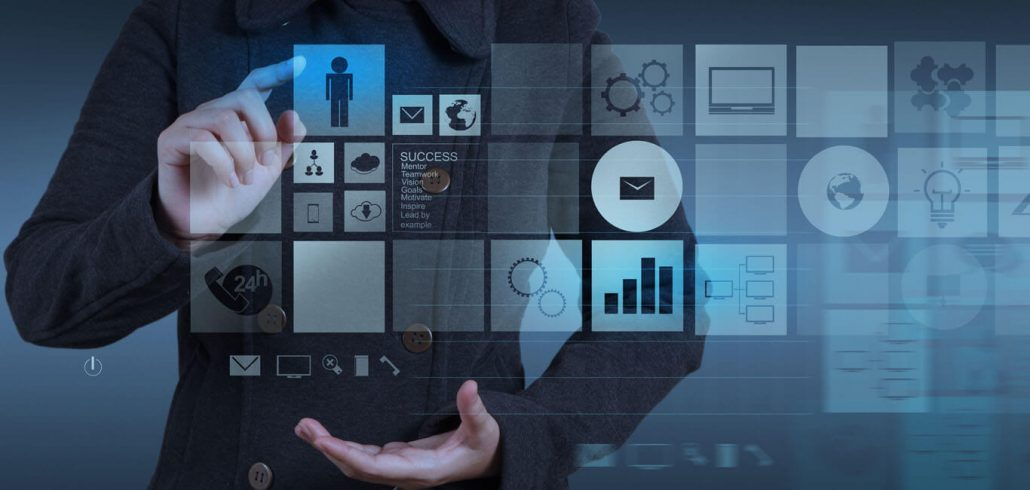
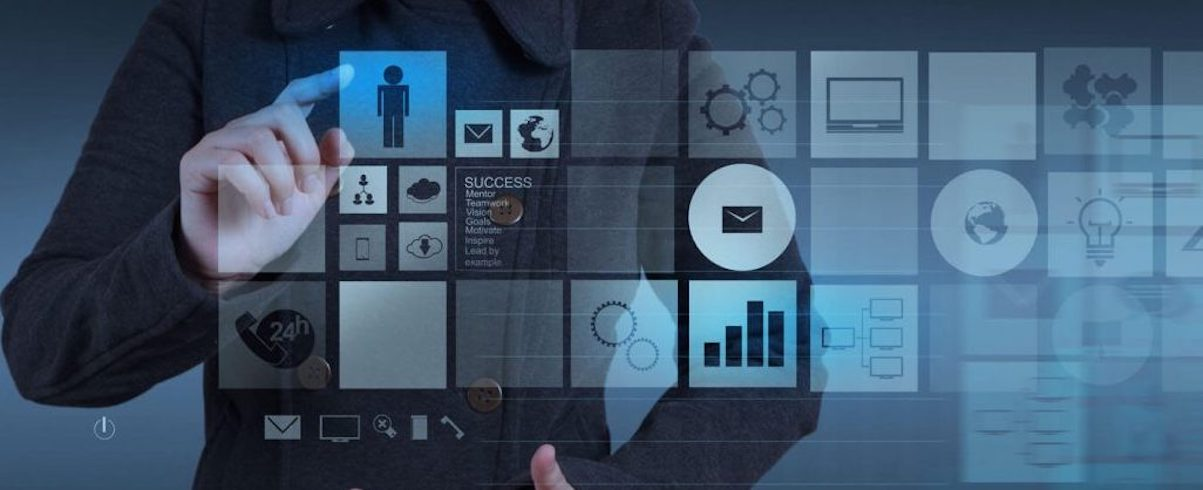
software development implementation

diff --git a/src/app/pages/workflow-component/workflow.component.html b/src/app/pages/workflow-component/workflow.component.html
@@ -1,73 +1,81 @@
 <section class="val_index_page">   
         <div class="banner_index">
-             <div class="banner_sec">
-                  <div class="container">
-                    <div class="row">
-                      <div class="col-lg-12 col-md-12 col-sm-12 col-xs-12">
-                          <h1>Software-<span style="color:#9493da;">Development</span></h1>
-                      </div>
-                    </div>
-                  </div>
-              </div>    
-        </div>
-
-        <div class="get-info">
-          <div class="container">
-            <div class="row">
-                <div class="col-lg-12 col-md-12 col-sm-12 col-xs-12">
-                    <strong>Streamline Workflows to Maximize Cost and Time Savings</strong>
+            <div class="banner_sec">
+                  <div class="row" style="width:100%;">
+                        <div class="col-lg-12 col-md-12 col-sm-12 col-xs-12" style="padding:0;">
+                                <mdb-carousel [isControls]="true" [animation]="'fade'" class="carousel slide carousel-fade">
+                                        <div *ngFor="let slide of slides">
+                                            <mdb-carousel-item>
+                                                <img class="d-block w-100" src="{{ slide.img }}" alt="First slide">
+                                                <div class="carousel-caption caro-capt">
+                                                        <h1 class="h3-responsive">Software-Development<span style="color:#9493da;"></span></h1>
+                                                        <!-- <p>Third text</p> -->
+                                                </div>
+                                            </mdb-carousel-item>
+                                        </div>
+                                </mdb-carousel>
+                        </div>
+                    </div> 
+    
+                <div class="get-info">
+                        <div class="container">
+                          <div class="row">
+                              <div class="col-lg-12 col-md-12 col-sm-12 col-xs-12">
+                                  <strong>Streamline Workflows to Maximize Cost and Time Savings</strong>
+                              </div>
+                          </div>
+                          <div class="row">
+                              <div class="col-lg-12 col-md-12 col-sm-12 col-xs-12">
+                                  <p>Your business day is full of requests and procedures that run through a 
+                                      series of steps required to complete each job.
+                                       Even a simple process like requesting time off can become overwhelming and 
+                                      cumbersome when the only system in place to manage this approval process is
+                                      an email request and a spreadsheet to track who is asking for what and what
+                                      action needs to happen next. Take the work out of workflows by letting 
+                                      VRD NETWORK integrate Gmail, Drive, Sites and other Google Apps into a complete workflow 
+                                      management system.
+                                  </p>
+                              </div>
+                          </div>
+                          <div class="row">
+                              <div class="col-lg-12 col-md-12 col-sm-12 col-xs-12">
+                                  <strong> Examples of VRD Built Workflow Solutions</strong>
+                              </div>
+                          </div>
+                          <div class="row">
+                              <div class="col-lg-12 col-md-12 col-sm-12 col-xs-12">
+                                  <ul>
+                                      <li>Gmail Approve/Reject Workflow</li>
+                                      <li>Vacation Requests </li>
+                                      <li>Overtime Requests </li>
+                                      <li>HR Requests</li>
+                                      <li>Service Desk Management</li>
+                                      <li>Customer Intake</li>
+                                      <li>Order Processing and Invoicing </li>
+                                    </ul>
+                                <p>VRD NETWORK helps businesses worldwide to fully leverage workflow 
+                                    solutions that improve business processes. Recently highlighted in the 
+                                    Google Apps Developer Blog, VRD demonstrated how to replace a 
+                                    cumbersome and time consuming process with an easy to use compliance assurance system.
+                                  </p>
+                              </div>
+                           </div> 
+                           <div class="row">
+                                  <div class="col-lg-12 col-md-12 col-sm-12 col-xs-12">
+                                      <strong>Google Apps Integration</strong>
+                                  </div>
+                              </div>
+                              <div class="row">
+                                  <div class="col-lg-12 col-md-12 col-sm-12 col-xs-12">
+                                    <p>
+                                          VRD really shines when it comes to plugging App Engine into the rest of 
+                                          your Google Apps providing solutions that work
+                                          for everyone in your business without the worry about the device or operating system they use.
+                                      </p>
+                                  </div>
+                               </div>   
+                        </div>
                 </div>
-            </div>
-            <div class="row">
-                <div class="col-lg-12 col-md-12 col-sm-12 col-xs-12">
-                    <p>Your business day is full of requests and procedures that run through a 
-                        series of steps required to complete each job.
-                         Even a simple process like requesting time off can become overwhelming and 
-                        cumbersome when the only system in place to manage this approval process is
-                        an email request and a spreadsheet to track who is asking for what and what
-                        action needs to happen next. Take the work out of workflows by letting 
-                        VRD NETWORK integrate Gmail, Drive, Sites and other Google Apps into a complete workflow 
-                        management system.
-                    </p>
-                </div>
-            </div>
-            <div class="row">
-                <div class="col-lg-12 col-md-12 col-sm-12 col-xs-12">
-                    <strong> Examples of VRD Built Workflow Solutions</strong>
-                </div>
-            </div>
-            <div class="row">
-                <div class="col-lg-12 col-md-12 col-sm-12 col-xs-12">
-                    <ul>
-                        <li>Gmail Approve/Reject Workflow</li>
-                        <li>Vacation Requests </li>
-                        <li>Overtime Requests </li>
-                        <li>HR Requests</li>
-                        <li>Service Desk Management</li>
-                        <li>Customer Intake</li>
-                        <li>Order Processing and Invoicing </li>
-                      </ul>
-                  <p>VRD NETWORK helps businesses worldwide to fully leverage workflow 
-                      solutions that improve business processes. Recently highlighted in the 
-                      Google Apps Developer Blog, VRD demonstrated how to replace a 
-                      cumbersome and time consuming process with an easy to use compliance assurance system.
-                    </p>
-                </div>
-             </div> 
-             <div class="row">
-                    <div class="col-lg-12 col-md-12 col-sm-12 col-xs-12">
-                        <strong>Google Apps Integration</strong>
-                    </div>
-                </div>
-                <div class="row">
-                    <div class="col-lg-12 col-md-12 col-sm-12 col-xs-12">
-                      <p>
-                            VRD really shines when it comes to plugging App Engine into the rest of 
-                            your Google Apps providing solutions that work
-                            for everyone in your business without the worry about the device or operating system they use.
-                        </p>
-                    </div>
-                 </div>   
-          </div>
+              </div>
         </div>
 </section>

diff --git a/src/app/pages/workflow-component/workflow.component.scss b/src/app/pages/workflow-component/workflow.component.scss
@@ -1,22 +1,24 @@
 .val_index_page {
     float: left;
     width: 100%;
-    
     position: relative;
     text-align: center;
   
     .banner_index {
-      height: 400px;
-      background-image: url(../../../assets/banner.jpg);
-      background-position: center center;
-      background-repeat: no-repeat;
-      background-size: cover;
+      height: 75px;
+      // background-image: url(../../../assets/banner.jpg);
+      // background-position: center center;
+      // background-repeat: no-repeat;
+      // background-size: cover;
       .banner_sec{
-        padding: 120px 0 30px;
+        //padding: 120px 0 30px;
         text-align: center;
         background: 0 0;
         float: left;
         width: 100%;
+          .caro-capt {
+               bottom: inherit;
+          }
           h1 {
             font-size: 80px;
             line-height: 90px;
@@ -42,8 +44,12 @@
   @media only screen and (min-width: 320px) and (max-width: 767px) {
     .val_index_page {
       .banner_index {
+        background-image: url(../../../assets/banner.jpg);
+      background-position: center center;
+      background-repeat: no-repeat;
+      background-size: cover;
         .banner_sec{
-          padding-top: 195px;
+          padding-top: 75px;
             h1 {
               font-size: 30px;
               line-height: 45px;

diff --git a/src/app/pages/contact-component/contact.component.scss b/src/app/pages/contact-component/contact.component.scss
@@ -20,8 +20,7 @@
             font-size: 80px;
             line-height: 90px;
             color: #fff;
-           // font-family: 'SCSans-Bold Noto-Sans';
-           font-weight: 700;
+            font-weight: 700;
           }
        }
         .form-outer {
@@ -49,7 +48,7 @@
                 outline: none;
                 border:1px solid #71da0b;
               }
-        }
+           }
         }
 
       .success-msg{

diff --git a/src/app/pages/workflow-component/workflow.component.ts b/src/app/pages/workflow-component/workflow.component.ts
@@ -5,5 +5,10 @@ import { Component } from '@angular/core';
   templateUrl: './workflow.component.html',
   styleUrls: ['./workflow.component.scss']
 })
-export class WorkflowComponent {}
+export class WorkflowComponent {
+  slides = [
+    {img: "assets/banner1.jpg"},
+    {img: "assets/banner2.jpg"}
+  ];
+}
 

diff --git a/src/app/pages/about-us-component/aboutus.component.ts b/src/app/pages/about-us-component/aboutus.component.ts
@@ -12,7 +12,6 @@ export class AboutUsComponent {
     {img: "assets/vrd-group2.jpeg"},
     {img: "assets/vrd-group3.jpeg"},
     {img: "assets/vrd-group4.jpg"}
-    // {img: "assets/vrd-group5.jpg"}
   ];
 
 }
